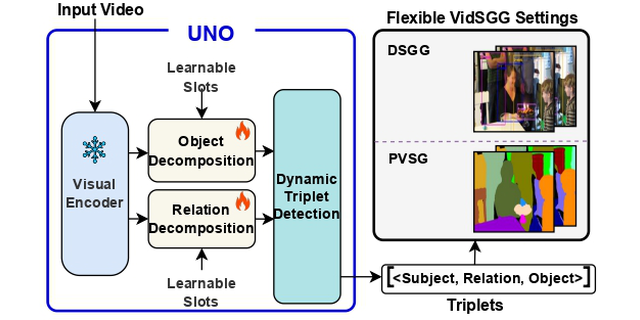
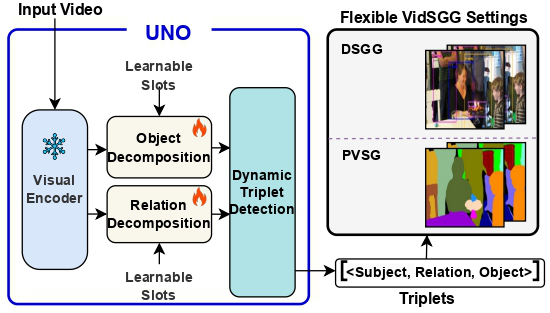
update img

diff --git a/_includes/archive-single.html b/_includes/archive-single.html
@@ -1,21 +1,24 @@
 {% include base_path %}
 <style>
   @media (max-width: 767px) {
-    .publication-table tr {
-      display: flex;
+    .publication-table {
       flex-direction: column;
-      align-items: center;
+      gap: 0.5rem;
     }
 
-    .publication-table td {
+    .pub-image {
       width: 100% !important;
-      text-align: center !important;
-      padding: 10px !important;
+      max-width: 100% !important;
+      text-align: center;
     }
 
-    .publication-table .pub-thumbnail {
+    .pub-image .pub-thumbnail {
       max-width: 80%;
-      height: auto;
+    }
+
+    .pub-text {
+      width: 100% !important;
+      text-align: center;
     }
 
     .publication-table .pub1 {
@@ -57,13 +60,11 @@
     {% endif %}
 
     {% if post.collection == 'publications' %}
-      <table class="publication-table" style="width:100%; border:5px; border-spacing:0px; border-collapse:collapse; margin-right:auto;">
-        <tbody>
-          <tr>
-            <td style="padding:15px; width:30%; text-align:center; vertical-align:middle;">
-                <img src="{{ post.image }}" alt="{{ post.title }}" class="pub-thumbnail" />
-            </td>
-            <td style="padding:5px; width:70%;">
+      <div class="publication-table">
+        <div class="pub-image">
+          <img src="{{ post.image }}" alt="{{ post.title }}" class="pub-thumbnail" />
+        </div>
+        <div class="pub-text">
               <p style="margin: 0px 0;">{% if post.link %}<a class="pub1" href="{{ post.link }}"><b>{{ post.title }}</b></a>{% else %}<span class="pub1"><b>{{ post.title }}</b></span>{% endif %}
                 {% if post.authors %}
                   <div class="authors-info" style="margin: 0px 0;">
@@ -134,10 +135,8 @@
                   <span class="icon"><i class="fa fa-globe"></i></span> Project Page
                 </a>
               {% endif %}
-            </td>
-          </tr>
-        </tbody>
-      </table>
+        </div>
+      </div>
     {% else %}
       <h2 class="archive__item-title" itemprop="headline" style="color: #0C4A6E;">
         {% if post.link %}

diff --git a/css/sky-theme.css b/css/sky-theme.css
@@ -221,18 +221,39 @@ body,
     padding-bottom: 0 !important;
 }
 
-/* Uniform publication thumbnail */
-.publication-table .pub-thumbnail {
+/* Publication flexbox layout */
+.publication-table {
+    display: flex;
+    gap: 1.5rem;
+    padding: 1rem 0;
+    align-items: center;
     width: 100%;
-    height: auto;
-    display: block;
-    margin: auto;
-    border-radius: 8px;
 }
 
-/* Base table text */
+.pub-image {
+    flex-shrink: 0;
+    width: 30%;
+    max-width: 30%;
+    overflow: hidden;
+}
+
+.pub-image .pub-thumbnail {
+    width: 100%;
+    height: auto;
+    max-width: 100%;
+    object-fit: contain;
+    display: block;
+    border-radius: 0;
+}
+
+.pub-text {
+    flex: 1;
+    min-width: 0;
+}
+
+/* Base text */
 .publication-table,
-.publication-table td,
+.publication-table .pub-text,
 .publication-table p {
     color: #334155 !important;
     font-family: "Lato", "Poppins", sans-serif !important;
@@ -719,7 +740,7 @@ html[data-theme="dark"] .ftco-navbar-light.scrolled .navbar-toggler {
 
 /* Publication table */
 [data-theme="dark"] .publication-table,
-[data-theme="dark"] .publication-table td,
+[data-theme="dark"] .publication-table .pub-text,
 [data-theme="dark"] .publication-table p {
     color: #CBD5E1 !important;
 }

diff --git a/scripts/standardize_pub_images.py b/scripts/standardize_pub_images.py
@@ -1,19 +1,27 @@
 """
-Standardize publication images to a uniform 800x450 transparent canvas.
+Standardize publication images to a uniform 640x320 transparent canvas
+with 16px rounded corners baked in.
 
 Usage:
     source Code/env/mila/bin/activate
     python3 scripts/standardize_pub_images.py
 """
 
-from PIL import Image
+from PIL import Image, ImageDraw
 import os
 
 CANVAS_W, CANVAS_H = 640, 320
-PADDING = 0
+RADIUS = 16
 
 IMG_DIR = os.path.join(os.path.dirname(__file__), '..', 'images', 'publications')
 IMG_DIR = os.path.abspath(IMG_DIR)
+
+
+def make_rounded_mask(w, h, radius):
+    mask = Image.new('L', (w, h), 0)
+    draw = ImageDraw.Draw(mask)
+    draw.rounded_rectangle([0, 0, w, h], radius=radius, fill=255)
+    return mask
 
 
 def standardize(path):
@@ -25,18 +33,21 @@ def standardize(path):
 
     original_size = img.size
 
-    avail_w = CANVAS_W - 2 * PADDING
-    avail_h = CANVAS_H - 2 * PADDING
-
-    scale = min(avail_w / img.width, avail_h / img.height)
+    scale = min(CANVAS_W / img.width, CANVAS_H / img.height)
     new_w = int(img.width * scale)
     new_h = int(img.height * scale)
     img_resized = img.resize((new_w, new_h), Image.LANCZOS)
 
+    # Apply rounded corners
+    mask = make_rounded_mask(new_w, new_h, RADIUS)
+    r, g, b, a = img_resized.split()
+    a = Image.composite(a, Image.new('L', (new_w, new_h), 0), mask)
+    img_rounded = Image.merge('RGBA', (r, g, b, a))
+
     canvas = Image.new('RGBA', (CANVAS_W, CANVAS_H), (0, 0, 0, 0))
     x = (CANVAS_W - new_w) // 2
     y = (CANVAS_H - new_h) // 2
-    canvas.paste(img_resized, (x, y), img_resized)
+    canvas.paste(img_rounded, (x, y), img_rounded)
     canvas.save(path)
 
     return original_size
